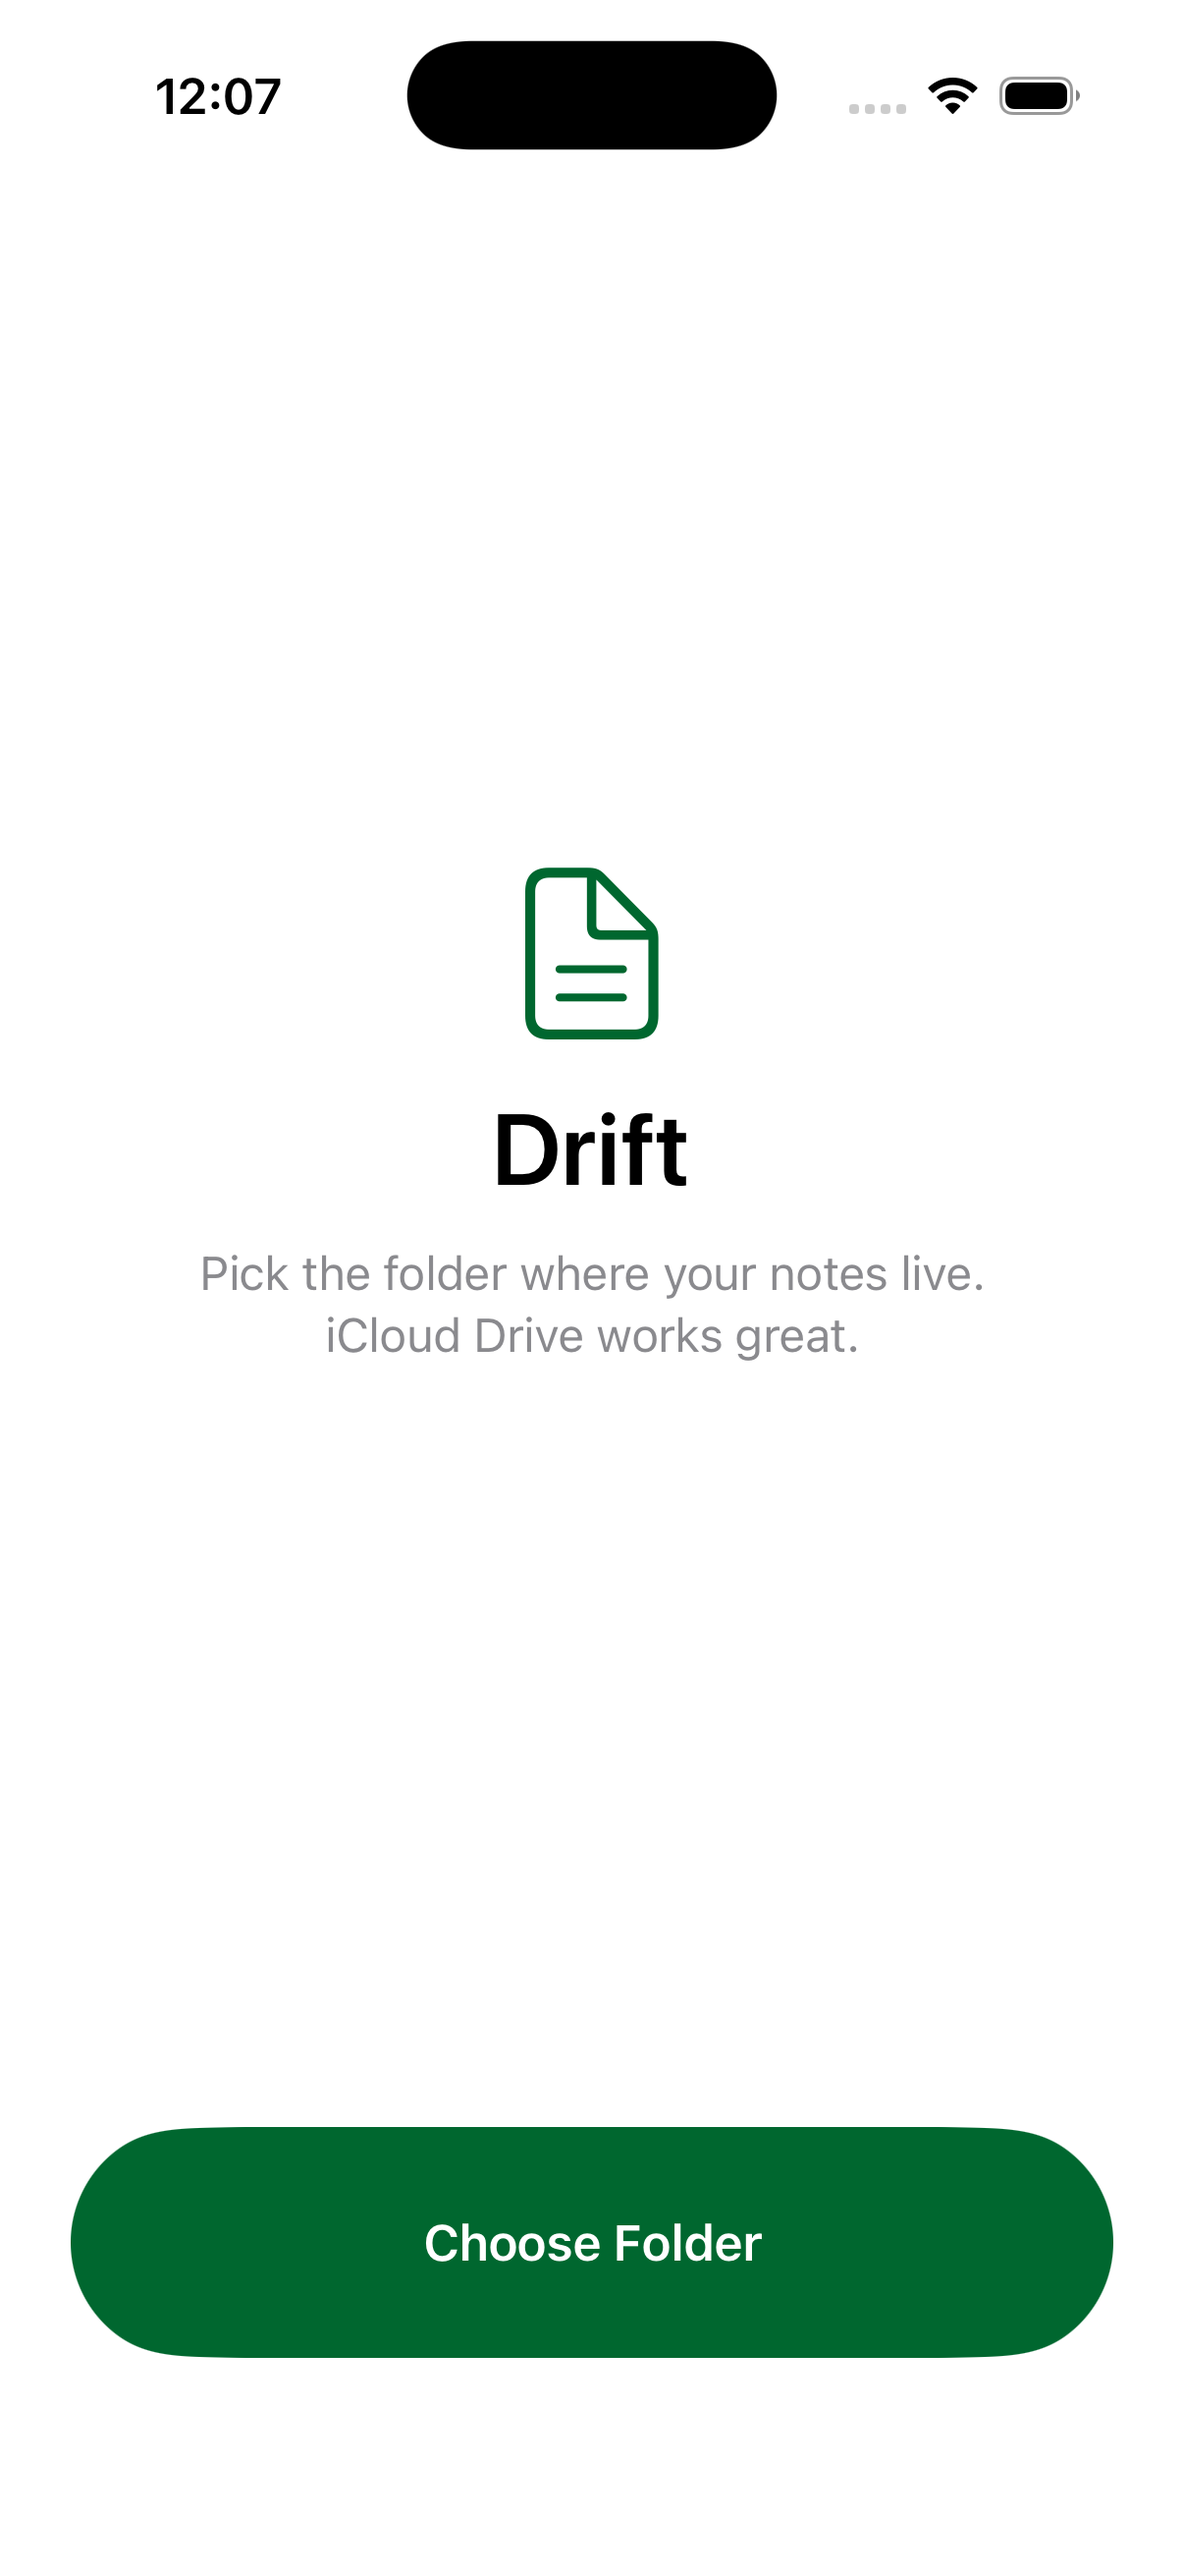
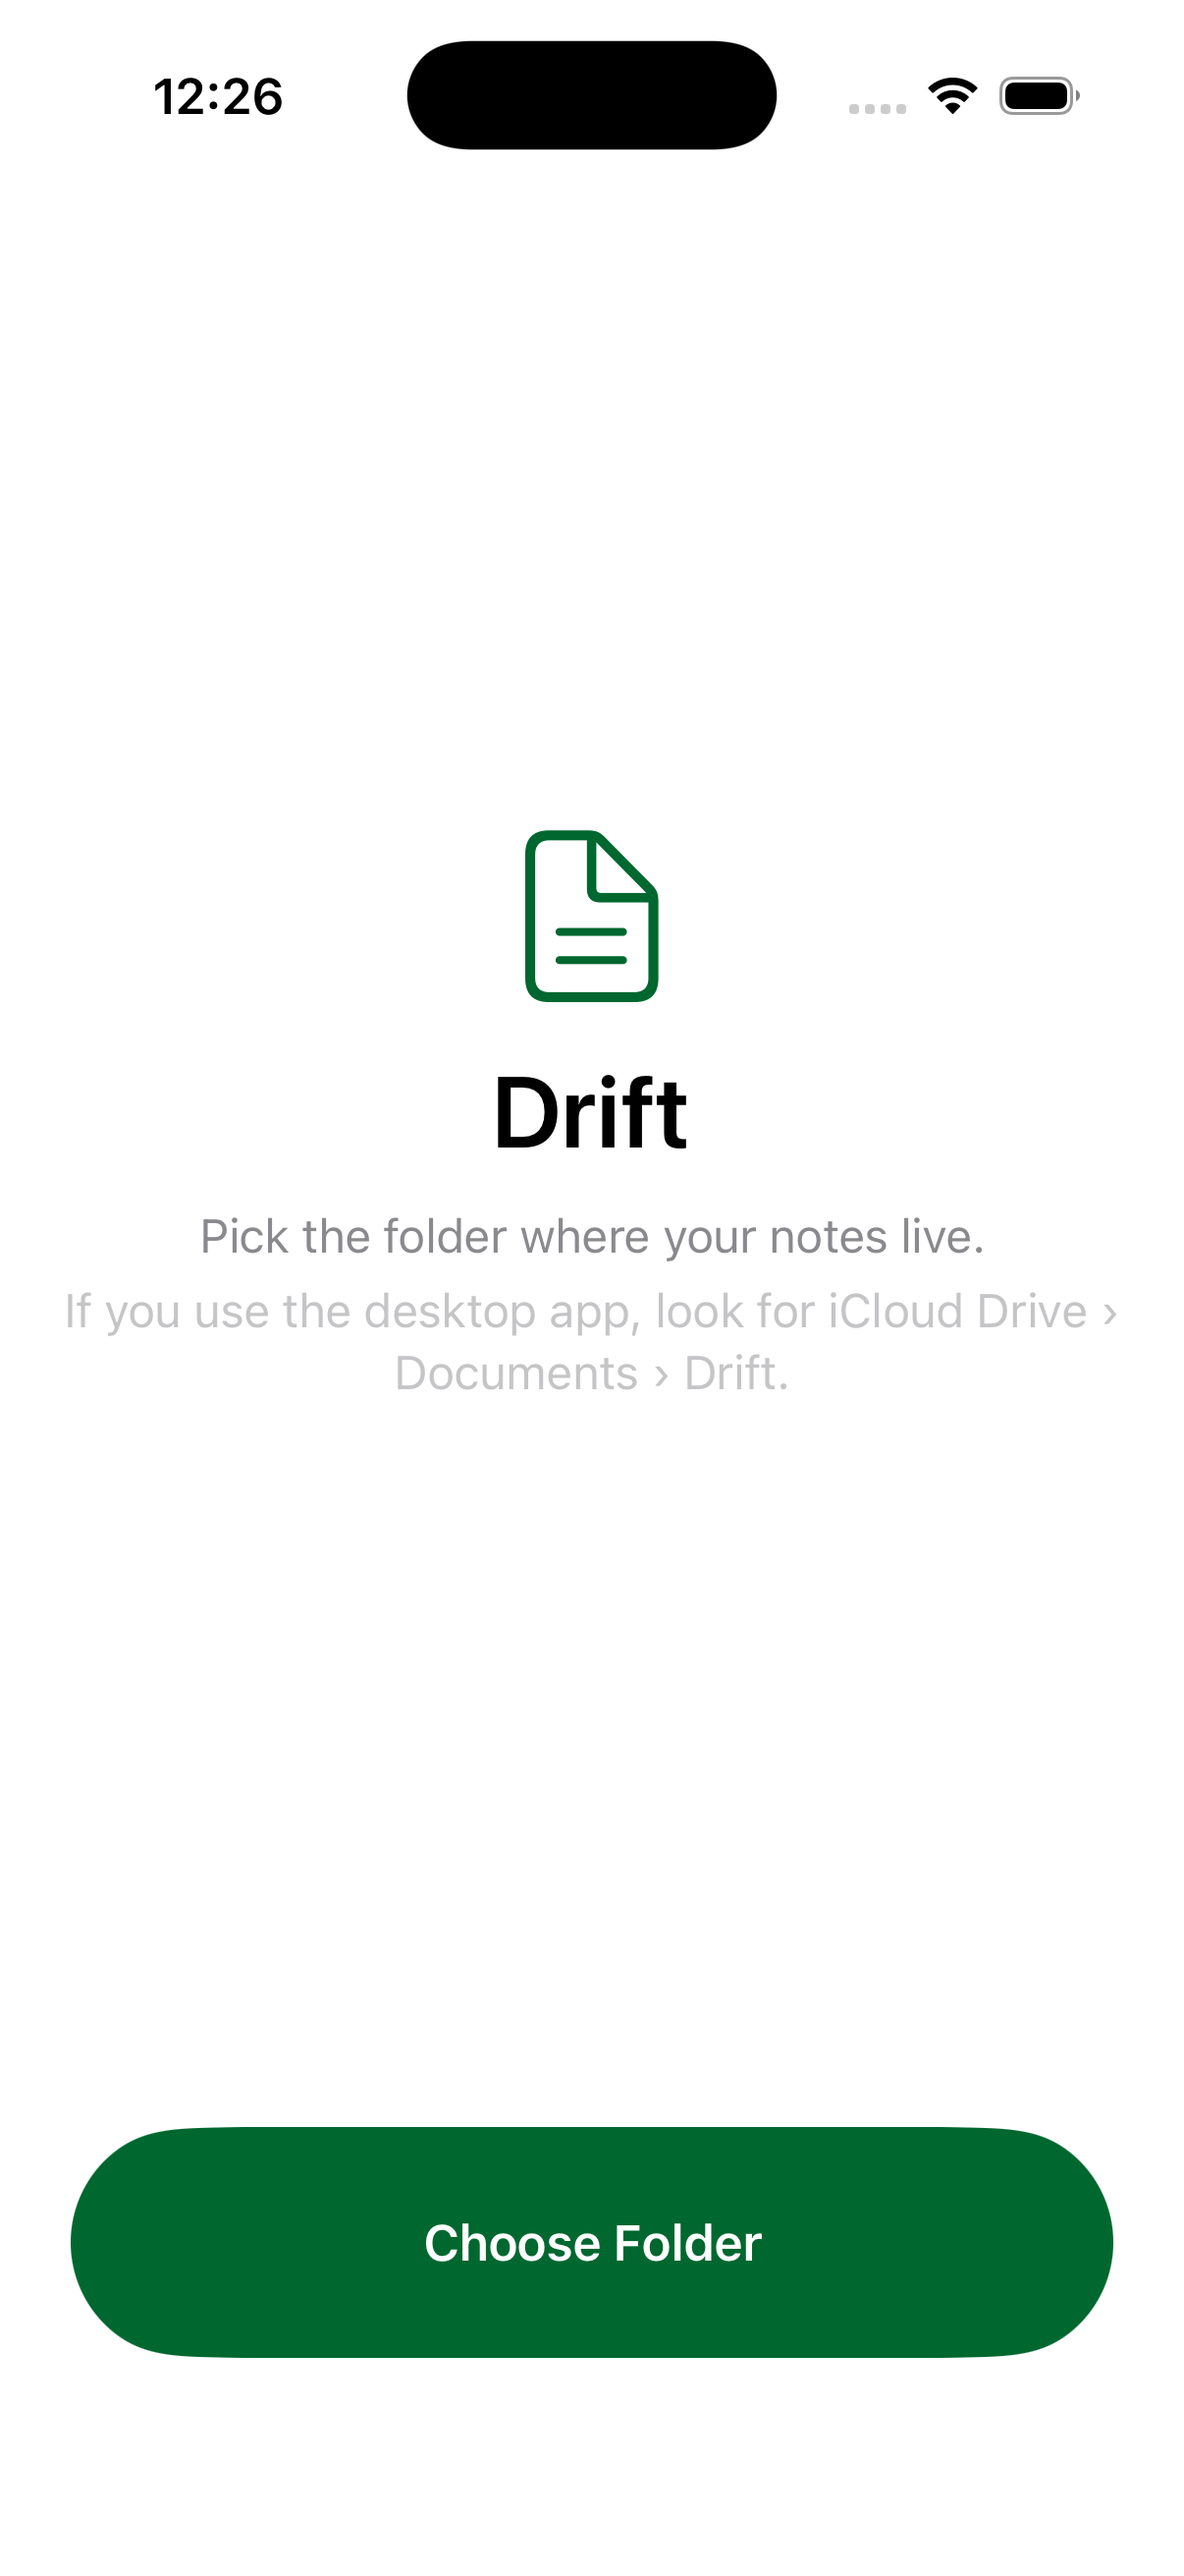
iOS: cmd+N keyboard shortcut, clearer folder picker hint
- Wire cmd+N on iPad hardware keyboard to the new-note button.
- Folder picker now points users at iCloud Drive › Documents › Drift
  if they're coming from the desktop app.

Changed region(s): [[0.092, 0.3089, 0.859, 0.5561], [0.1841, 0.0309, 0.2454, 0.0618], [0.8897, 0.4943, 0.9204, 0.5252]]

diff --git a/drift-ios/Drift/Views/FolderPickerView.swift b/drift-ios/Drift/Views/FolderPickerView.swift
@@ -17,10 +17,15 @@ struct FolderPickerView: View {
                 Text("Drift")
                     .font(.largeTitle.weight(.semibold))
 
-                Text("Pick the folder where your notes live.\niCloud Drive works great.")
-                    .font(.callout)
-                    .foregroundStyle(.secondary)
-                    .multilineTextAlignment(.center)
+                VStack(spacing: 6) {
+                    Text("Pick the folder where your notes live.")
+                    Text("If you use the desktop app, look for iCloud Drive › Documents › Drift.")
+                        .foregroundStyle(.tertiary)
+                }
+                .font(.callout)
+                .foregroundStyle(.secondary)
+                .multilineTextAlignment(.center)
+                .padding(.horizontal, 20)
             }
 
             Spacer()

diff --git a/drift-ios/Drift/Views/NoteListView.swift b/drift-ios/Drift/Views/NoteListView.swift
@@ -54,6 +54,7 @@ struct NoteListView: View {
                 } label: {
                     Image(systemName: "square.and.pencil")
                 }
+                .keyboardShortcut("n", modifiers: .command)
             }
         }
         .refreshable { store.loadNotes() }
